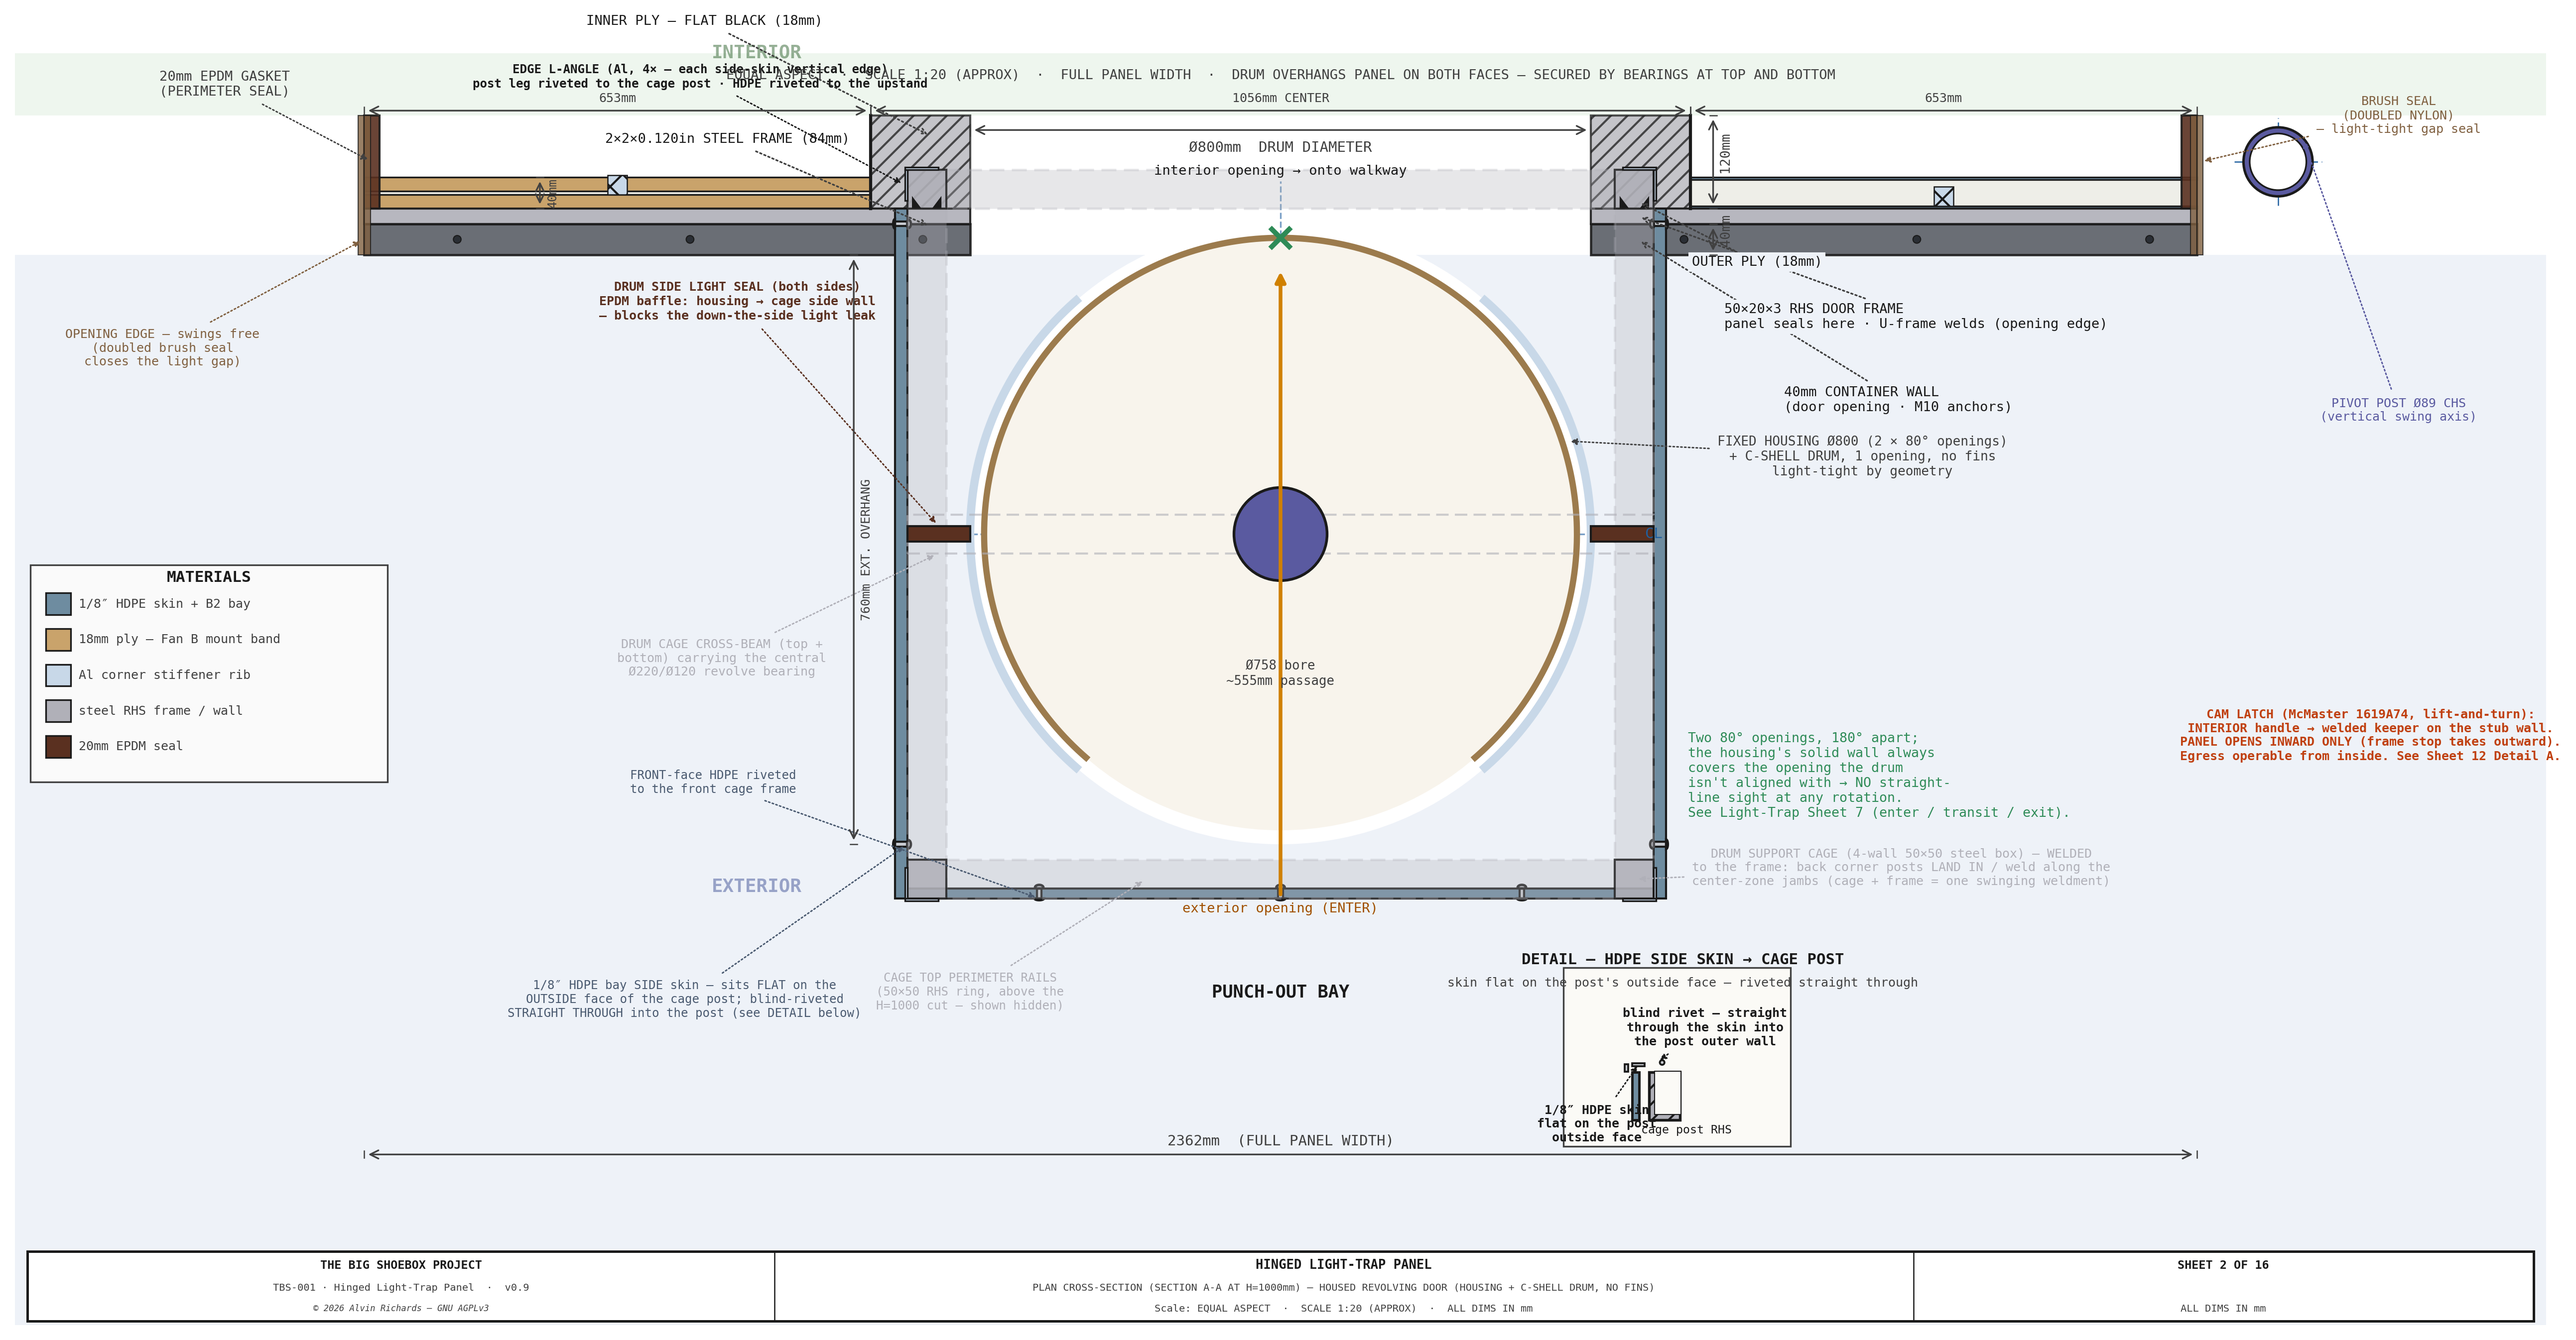
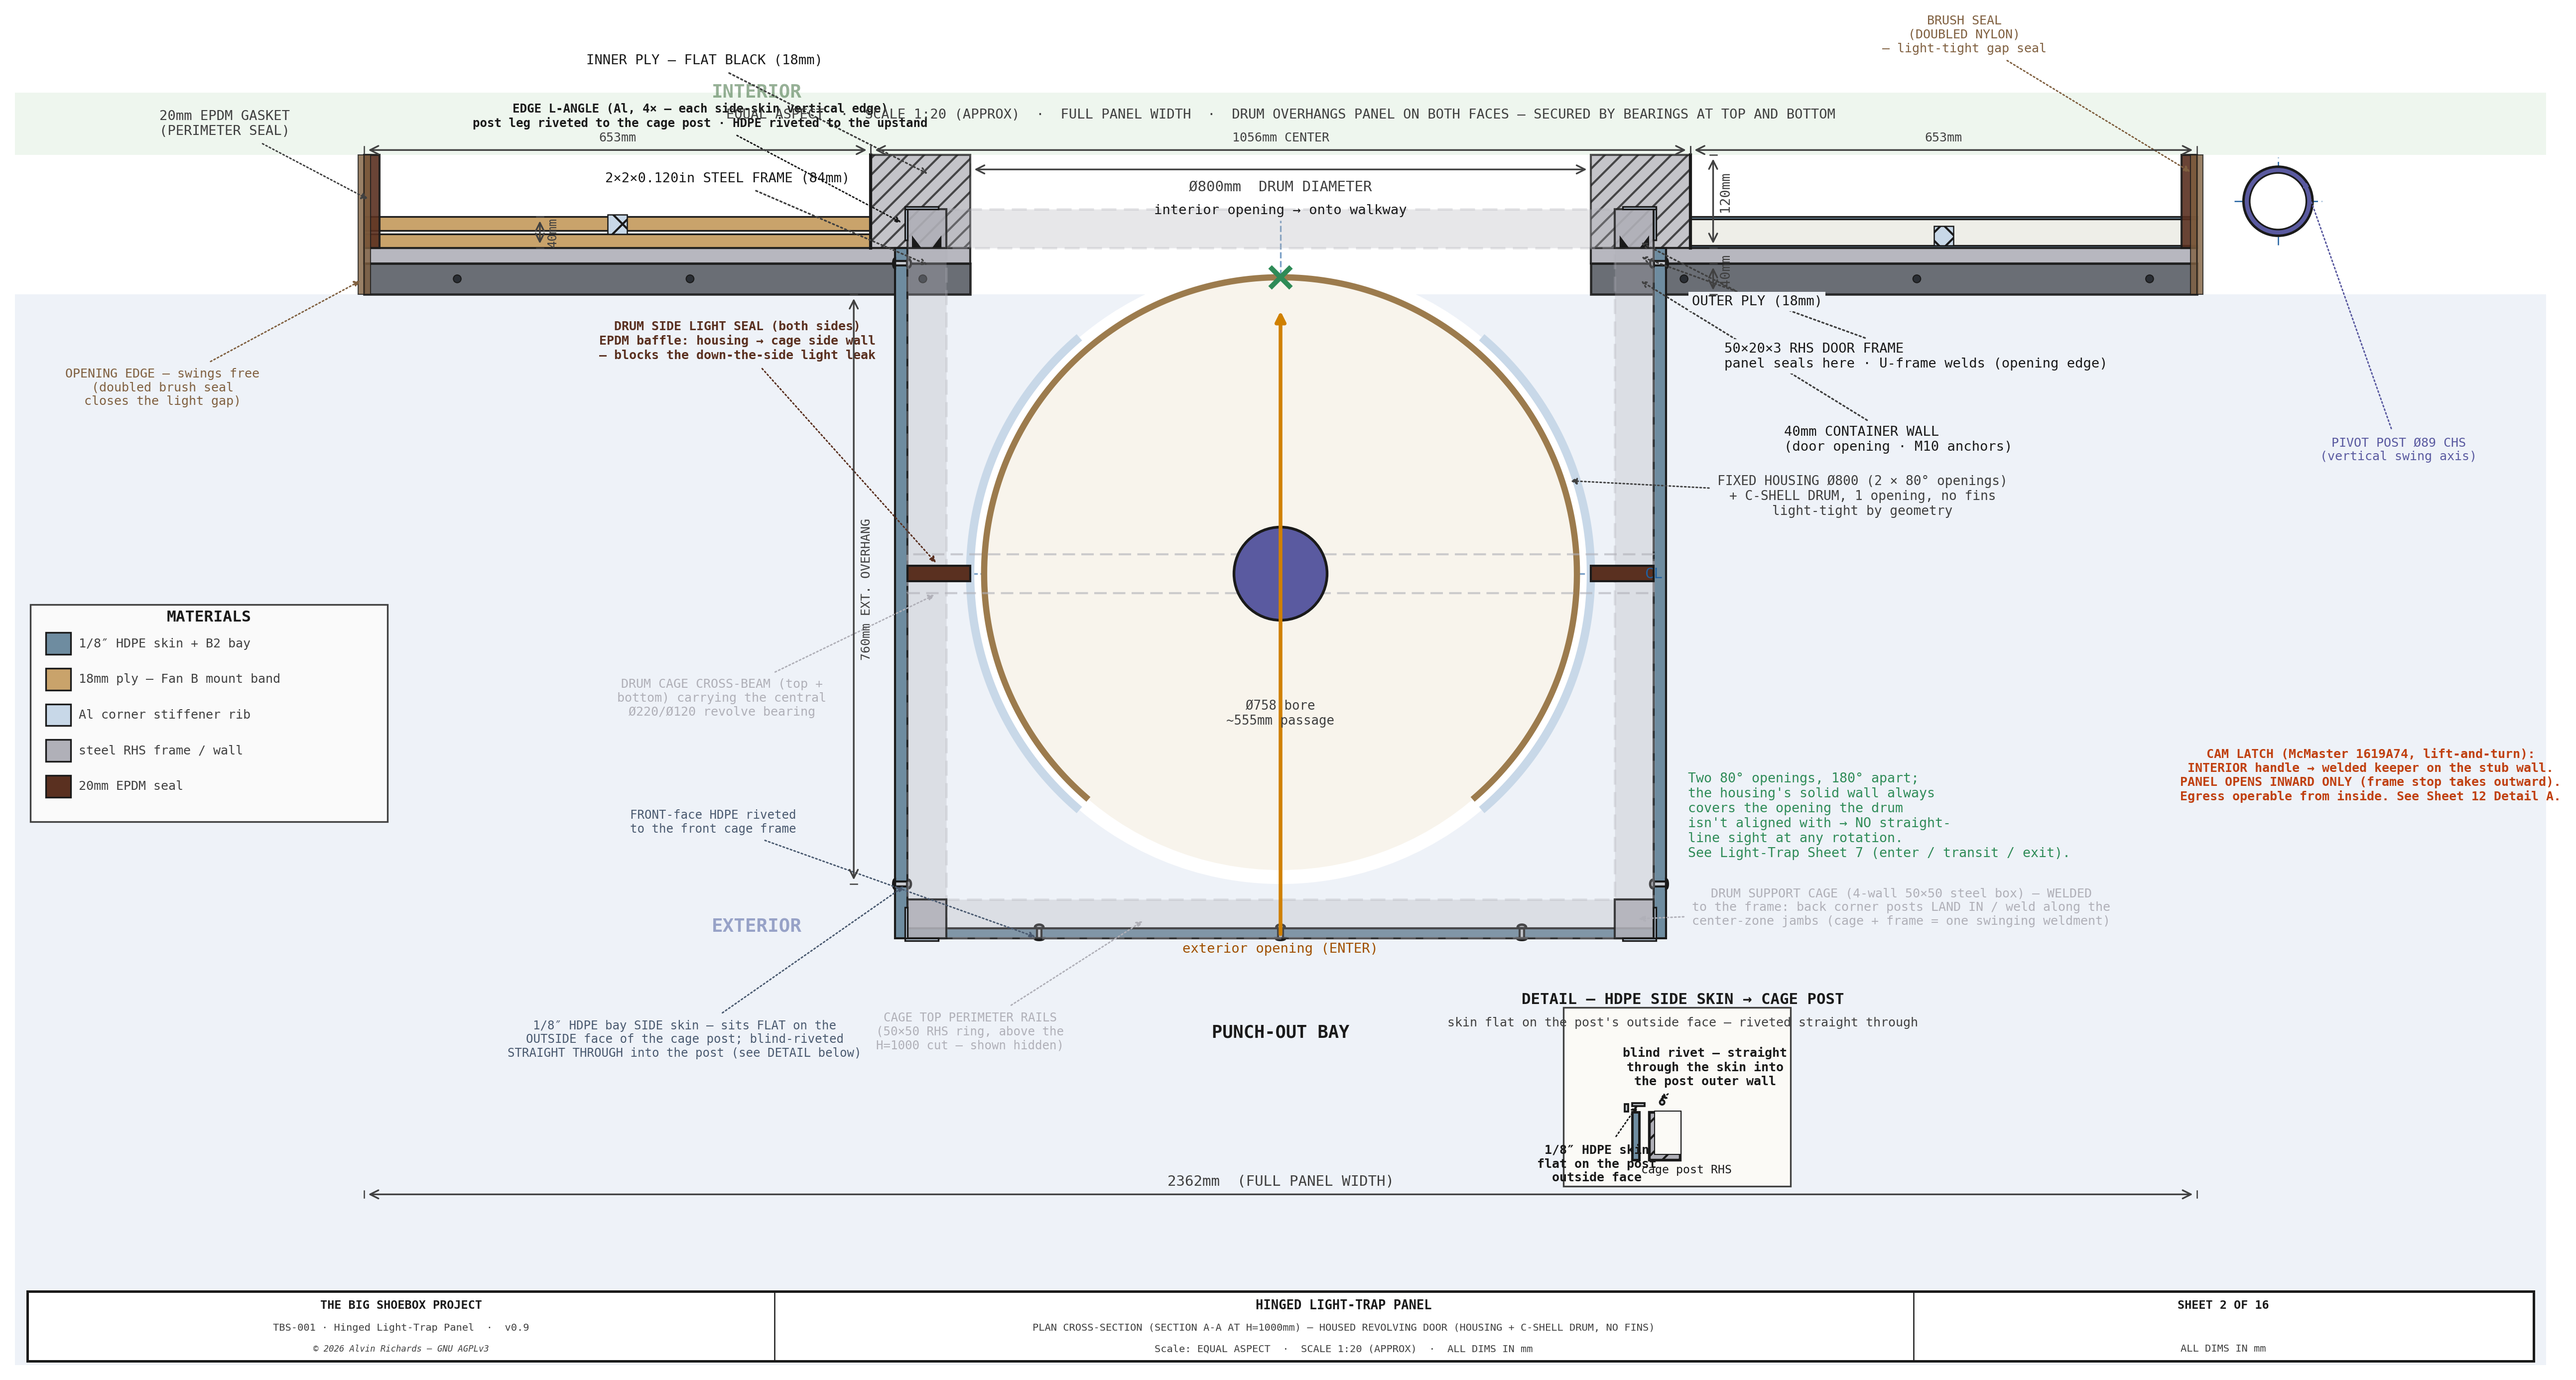
Sheet 2: reroute the brush-seal leader clear of the pivot post (short leader up into the gap above the panel)

diff --git a/src/generators/generate_hingepanel_diagram.py b/src/generators/generate_hingepanel_diagram.py
@@ -648,8 +648,8 @@ def sheet2():
     leader(ax, (post_cx + R_post * 0.71, post_cy + R_post * 0.71),
            (rail_right_x + 200, Y_HI - 460),
            "PIVOT POST Ø89 CHS\n(vertical swing axis)", col="#5A5AA0", fs=6)
-    leader(ax, (PW + brush_w / 2, Y0_PL + PT / 2),
-           (rail_right_x + 200, Y_HI - 80),
+    leader(ax, (PW - brush_w / 2, Y_INT - 25),
+           (PW - 300, Y_INT + 155),
            "BRUSH SEAL\n(DOUBLED NYLON)\n— light-tight gap seal", col=C_BRUSH, fs=6)
 
     # ── Drum: draw filled circle on top to cut out the drum hole ─────────────
